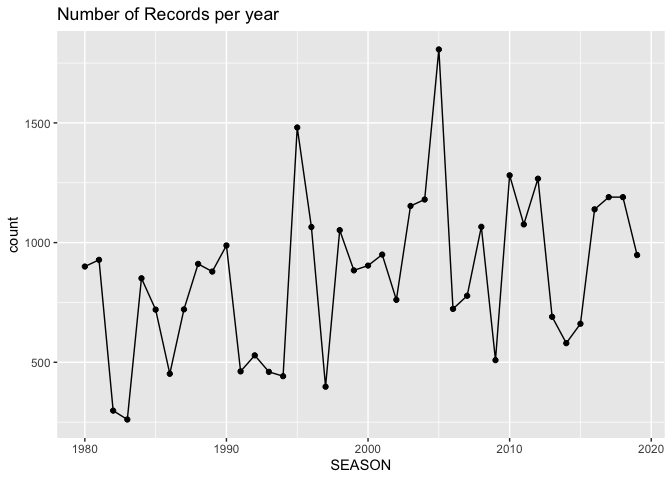
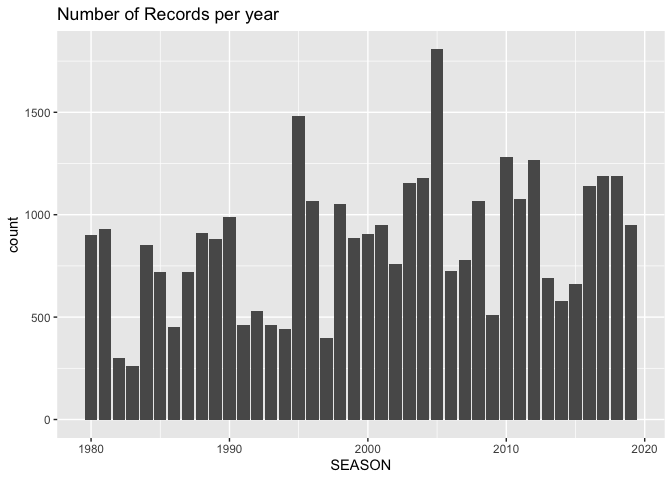
Updated files hurricanes day3

diff --git a/all_class_resources/Module1-Hurricanes/806-edss-day3-part2.md b/all_class_resources/Module1-Hurricanes/806-edss-day3-part2.md
@@ -182,8 +182,8 @@ records_per_year <- dat %>%
   count(SEASON, name = "count")
 
 ggplot(data = records_per_year, aes(x = SEASON, y = count)) +
-  geom_point() + 
-  geom_line() +
+  #geom_point() + 
+  geom_col() +
   labs(title = "Number of Records per year")
 ```
 
@@ -219,6 +219,33 @@ hist(dat$WMO_WIND, col = 'gray80')
 
 <img src="806-edss-day3-part2_files/figure-gfm/hist-wind-1.png" width="50%" />
 
+Since we are given Longitude (LON) and Latitude (LAT), we can graph them
+both using `geom_point()` as it would resemble us plotting the storms on
+an x and y axis.
+
+``` r
+ggplot(data = dat, aes(x = LON, y = LAT, color = MONTH)) + 
+  geom_point()
+```
+
+![](806-edss-day3-part2_files/figure-gfm/lon_lat-1.png)<!-- -->
+
+A better visual display can be obtained by including a map to the
+backgroud:
+
+``` r
+gg_world <- ggplot() + 
+  geom_polygon(data = map_data("world"), aes(x = long, y = lat, group = group), 
+               fill = "gray95", colour = "gray70", size = 0.2) + theme_bw()
+
+gg_world + 
+  geom_point(data = dat, 
+             aes(x = LON, y = LAT, group = SID), size = 0.1, alpha = 0.3) + 
+  labs(title = "Storm trajectories 1980-2019")
+```
+
+![](806-edss-day3-part2_files/figure-gfm/map_lon_lat-1.png)<!-- -->
+
 -----
 
 ## Research Claim A) “Typical Hurricane Season”
@@ -238,7 +265,7 @@ ggplot(dat, aes(x = MONTH)) +
   geom_bar() + 
   scale_x_discrete("Month", limits = 1:12,
                    labels = substr(month.name, 1, 3)) + 
-  labs(title = "Frequencies of records per month") +
+  labs(title = "Frequencies of storm records per month") +
   theme_bw()
 ```
 
@@ -272,11 +299,27 @@ ggplot(data = storms_per_month, aes(x = MONTH)) +
   geom_bar() + 
   scale_x_discrete("Month", limits = 1:12,
                    labels = substr(month.name, 1, 3)) + 
-  labs(title = "Number of storms per month (1980 - 2019)") +
+  labs(title = "Number of unique storms per month (1980 - 2019)") +
   theme_bw()
 ```
 
 ![](806-edss-day3-part2_files/figure-gfm/storms-per-month-1.png)<!-- -->
+
+We can try to use facets by year:
+
+``` r
+# plot monthly storms frequency in a given year
+ggplot(dat, aes(x = MONTH)) + 
+  geom_bar() + 
+  facet_wrap(~ SEASON) +
+  labs(x = "Month",
+       y = "Frequency", 
+       title = "Monthly Storms Frequency in a Given Year") +
+  scale_x_discrete("Month", labels = 1:12, limits = 1:12) +
+  theme_bw()
+```
+
+![](806-edss-day3-part2_files/figure-gfm/storms_by_year_facets-1.png)<!-- -->
 
 #### Stroms by month, in the 1980s
 
@@ -345,6 +388,19 @@ ggplot(storms_2010s_month, aes(x = MONTH)) +
 ```
 
 ![](806-edss-day3-part2_files/figure-gfm/storms_2010s_month-1.png)<!-- -->
+
+#### Mapping Storms by Month
+
+``` r
+gg_world + 
+  geom_path(data = dat, 
+            aes(x = LON, y = LAT, group = SID), 
+            size = 0.2, alpha = 0.3, color = "#F43F3F") + 
+  labs(title = "Storm trajectories 1980-2019") +
+  facet_wrap(~ MONTH)
+```
+
+![](806-edss-day3-part2_files/figure-gfm/map_storms_month-1.png)<!-- -->
 
 -----
 
@@ -655,16 +711,33 @@ dat %>%
 
 #### Landfall Resutls
 
-Based on our analysis, it seems that some hurricanes have made landfall
-before June (in May), and also after November (in December). To confirm
-whether this data involves US landfall we can produce a map like the one
-below:
+Based on our analysis, it seems that some storms have made landfall
+before June (in May), and also after November (in December). Who are
+these storms? Let’s filter out some data:
+
+``` r
+# hurricanes outside months 6-11 making landfall
+dat %>% 
+  filter(WMO_WIND >= 64 & (MONTH < 6 | MONTH > 11) & LANDFALL == 0) %>% 
+  group_by(SID) %>% 
+  count(NAME, MONTH)
+```
+
+    ## # A tibble: 1 x 4
+    ## # Groups:   SID [1]
+    ##   SID           NAME    MONTH     n
+    ##   <chr>         <chr>   <dbl> <int>
+    ## 1 2013149N14264 BARBARA     5     2
+
+It seems that there’s one hurricane that made landfall during the month
+of May. To confirm whether this hurricane made US landfall, we can
+produce a map like the one below:
 
 ``` r
 # filter hurricanes outside months 6-11
 subdat <- dat %>% 
-  filter(WMO_WIND >= 64) %>% 
-  group_by(SID) %>% filter(MONTH < 6 | MONTH >11)
+  filter(WMO_WIND >= 64 & (MONTH < 6 | MONTH > 11) & LANDFALL == 0) %>% 
+  group_by(SID)
 
 #data for the map of the USA
 us_map <- map_data("usa")
@@ -673,11 +746,40 @@ us_map <- map_data("usa")
 ggplot()+
   geom_map(data = us_map, map = us_map ,aes(map_id = region))+
   expand_limits( x = us_map$long, y = us_map$lat)+
-  geom_path(data = subdat, aes(y = LAT, x = LON, col = SID))+
+  geom_path(data = subdat, aes(y = LAT, x = LON, col = SID), size = 2)+
   theme(legend.text = element_text(size = 6))+
   labs(title = "Hurricane trajectoriess before Jun and after Nov")
 ```
 
-![](806-edss-day3-part2_files/figure-gfm/unnamed-chunk-16-1.png)<!-- -->
+![](806-edss-day3-part2_files/figure-gfm/barbara-1.png)<!-- -->
 
 From the map, none of the hurricanes made US landfall.
+
+#### Landfall Resutls (alternative)
+
+An alternative way to address this claim is by filtering hurricanes
+(`WMO_WIND >= 64`) that made lanfall (`LANDFALL == 0`), and plotting
+them on a map.
+
+``` r
+hurricanes_land <- dat %>% 
+  filter(WMO_WIND >= 64 & DIST2LAND == 0)
+
+gg_world <- ggplot() + 
+  geom_polygon(data = map_data("world"), aes(x = long, y = lat, group = group), 
+               fill = "gray95", colour = "gray70", size = 0.2) + theme_bw()
+
+gg_world + 
+  geom_point(data = hurricanes_land, 
+             aes(x = LON, y = LAT, color = factor(MONTH))) + 
+  xlim(c(-150, -60)) + ylim(c(0, 45)) + 
+  labs(title = "Hurricanes that Hit Land from 1980-2019")
+```
+
+    ## Warning: Removed 8 rows containing missing values (geom_point).
+
+![](806-edss-day3-part2_files/figure-gfm/hurrs_landfall-1.png)<!-- -->
+
+As you can tell, only one hurricane made landfall outside the months of
+June to November. More specifically, this is the hurricane on May, which
+made landfall in Mexico.
